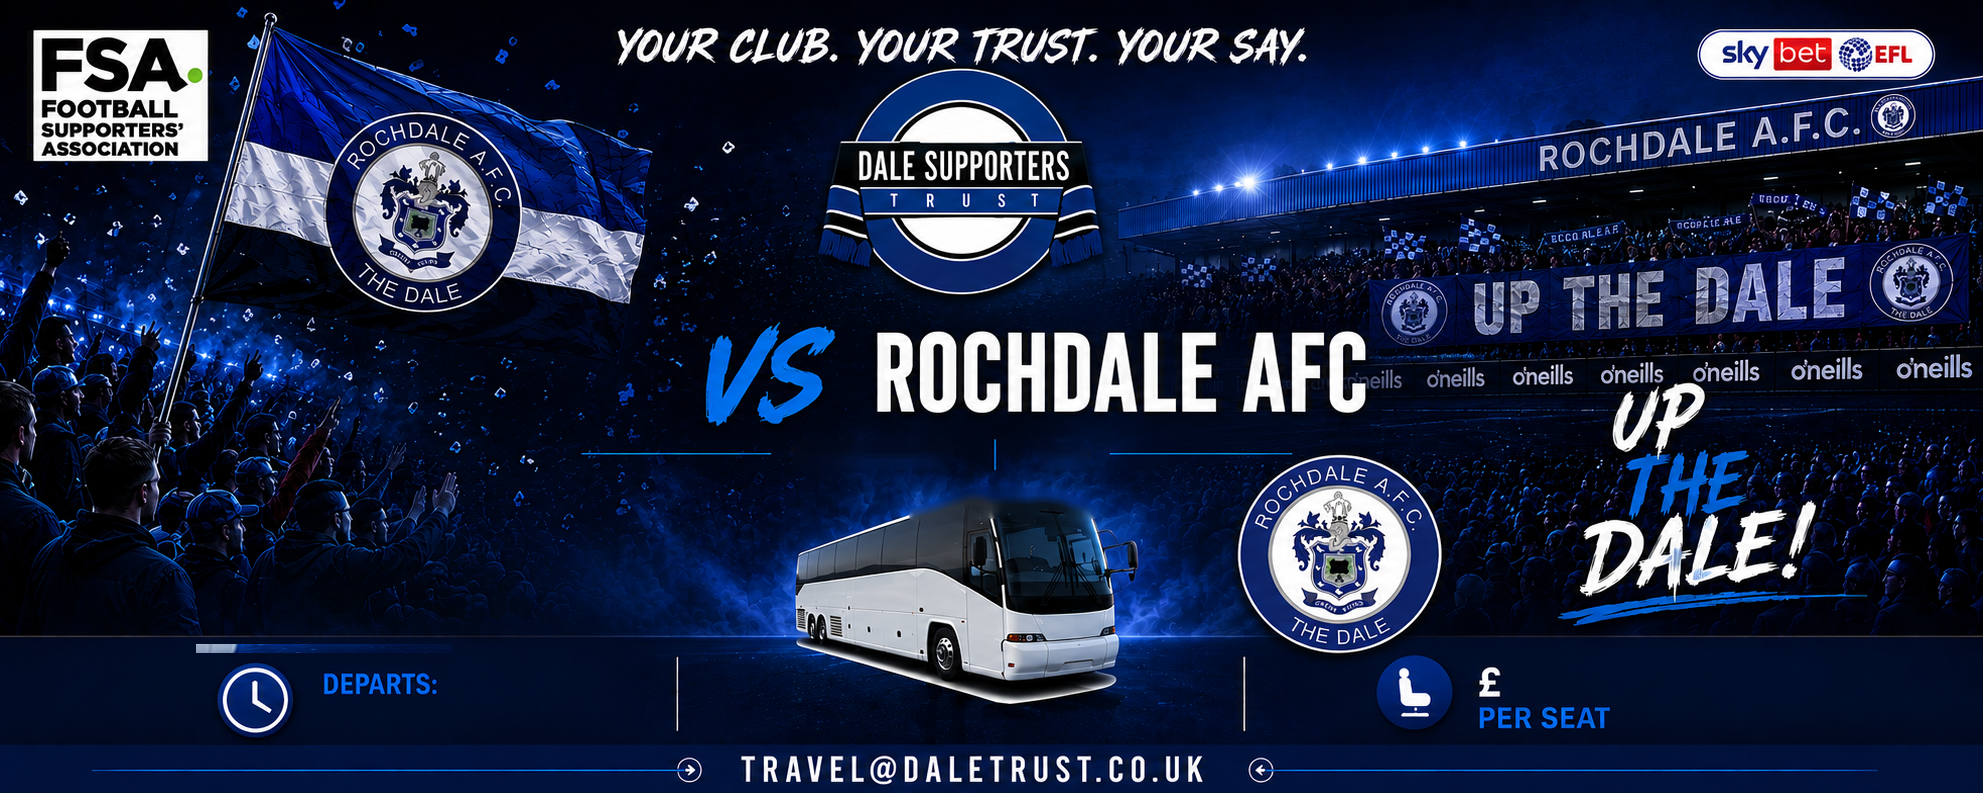
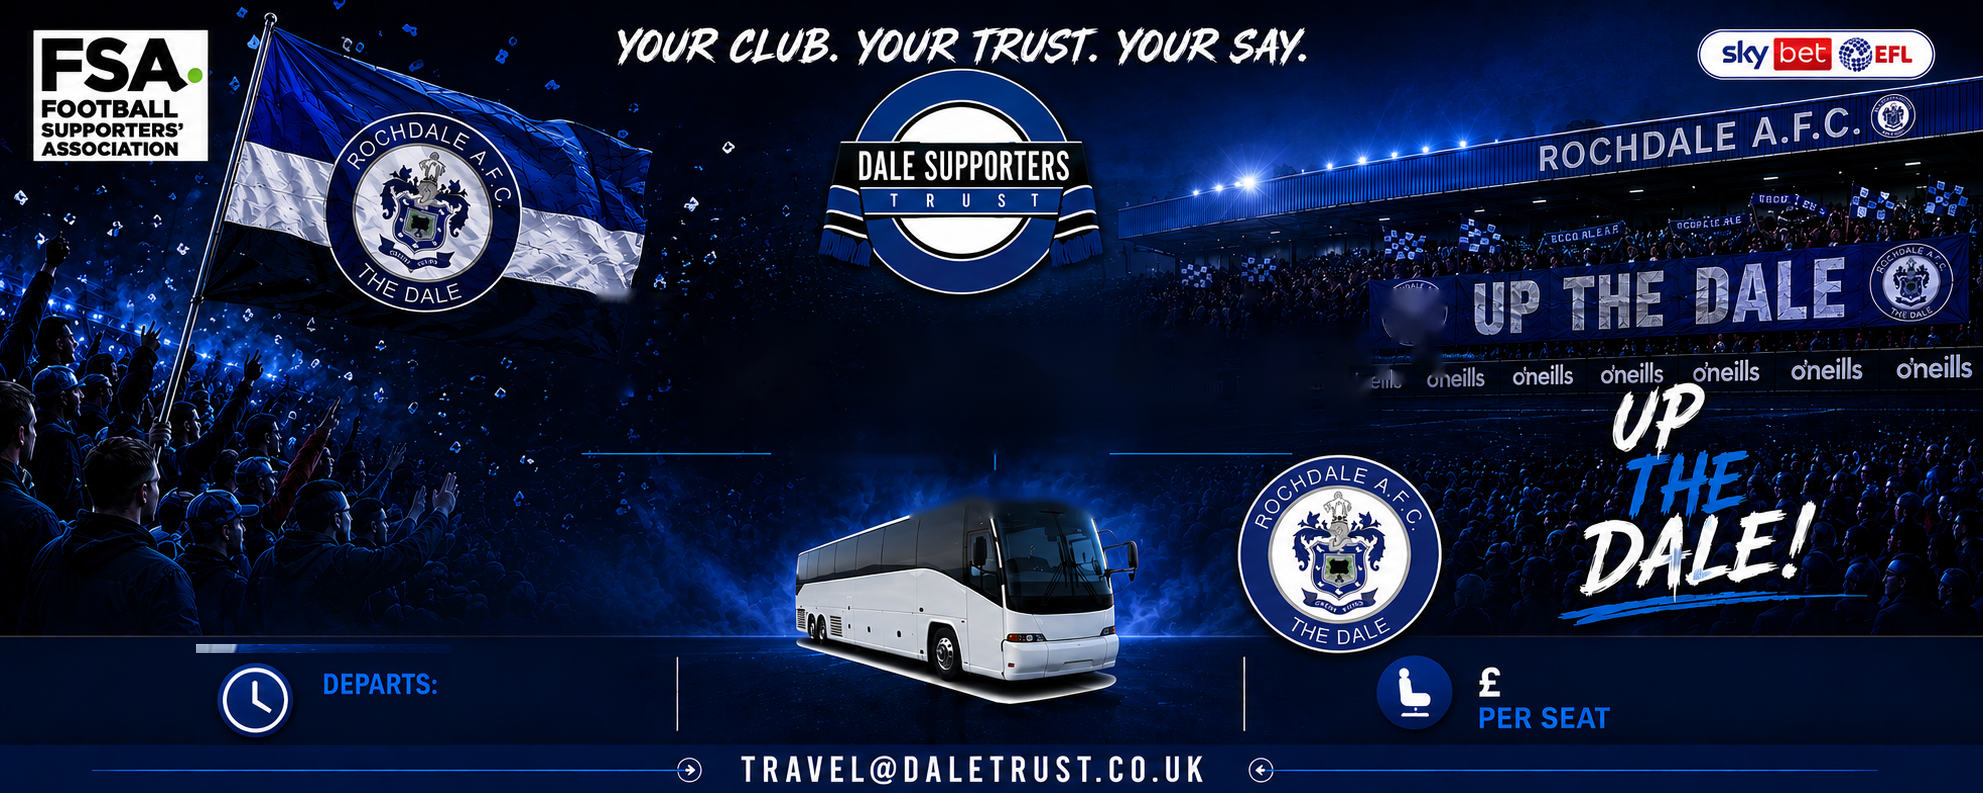
Add files via upload

Changed region(s): [[0.3076, 0.3632, 0.7383, 0.5448], [0.2769, 0.3632, 0.3384, 0.3934]]

diff --git a/coach-poster.html b/coach-poster.html
@@ -98,12 +98,31 @@ function render(){
   x.clearRect(0,0,1983,793);
   x.drawImage(tmpl,0,0);
   x.textBaseline='alphabetic';
-  // opponent name: right-aligned against the static "VS ROCHDALE AFC"
+  // full headline composed dynamically: VS centred under the Trust roundel (x=991)
   const opp=$('opp').value.toUpperCase()||'OPPOSITION';
-  let size=84;   // matches the static ROCHDALE AFC
-  do{x.font=`700 ${size}px Oswald`;if(x.measureText(opp).width<=545)break;size-=3;}while(size>28);
+  const home='ROCHDALE AFC', GAP=26, BASE=411, CX=991;
+  let size=84;
+  for(;;){
+    x.font=`700 ${size}px Oswald`;
+    var vsW=x.measureText('VS').width*1.28;
+    var oppW=x.measureText(opp).width, homeW=x.measureText(home).width;
+    const left=CX-vsW/2-GAP-oppW, right=CX+vsW/2+GAP+homeW;
+    if((left>=70&&right<=1450)||size<=30)break;
+    size-=3;
+  }
+  x.font=`700 ${size}px Oswald`;
   x.fillStyle='#FFFFFF';
-  x.fillText(opp, 660-x.measureText(opp).width, 411);
+  x.fillText(opp, CX-vsW/2-GAP-x.measureText(opp).width, BASE);
+  x.fillText(home, CX+vsW/2+GAP, BASE);
+  // the VS: bigger, blue, slight tilt for the brush feel
+  x.save();
+  x.translate(CX, BASE-6);
+  x.rotate(-0.06);
+  x.font=`700 ${Math.round(size*1.28)}px Oswald`;
+  x.fillStyle='#35A7FF';
+  const vw=x.measureText('VS').width;
+  x.fillText('VS', -vw/2, 0);
+  x.restore();
   // date line composed between the static dashes, centred at 948
   const dateT=($('date').value.toUpperCase()||'').trim();
   const koT=(($('ko').value||'').trim())+' KO';
@@ -123,8 +142,8 @@ function render(){
   }
   // departs time, right of the static label
   const dep=$('dep').value.toUpperCase()||'';
-  let ts=42;do{x.font=`700 ${ts}px Oswald`;if(x.measureText(dep).width<=210)break;ts-=2;}while(ts>20);
-  x.fillStyle='#FFFFFF';x.fillText(dep,458,717);
+  let ts=38;do{x.font=`700 ${ts}px Oswald`;if(x.measureText(dep).width<=205)break;ts-=2;}while(ts>18);
+  x.fillStyle='#FFFFFF';x.fillText(dep,288,752);
   // price digits, right of the static £
   const pr=($('price').value||'').replace(/[^0-9.]/g,'');
   let ps=40;do{x.font=`700 ${ps}px Oswald`;if(x.measureText(pr).width<=150)break;ps-=2;}while(ps>18);
